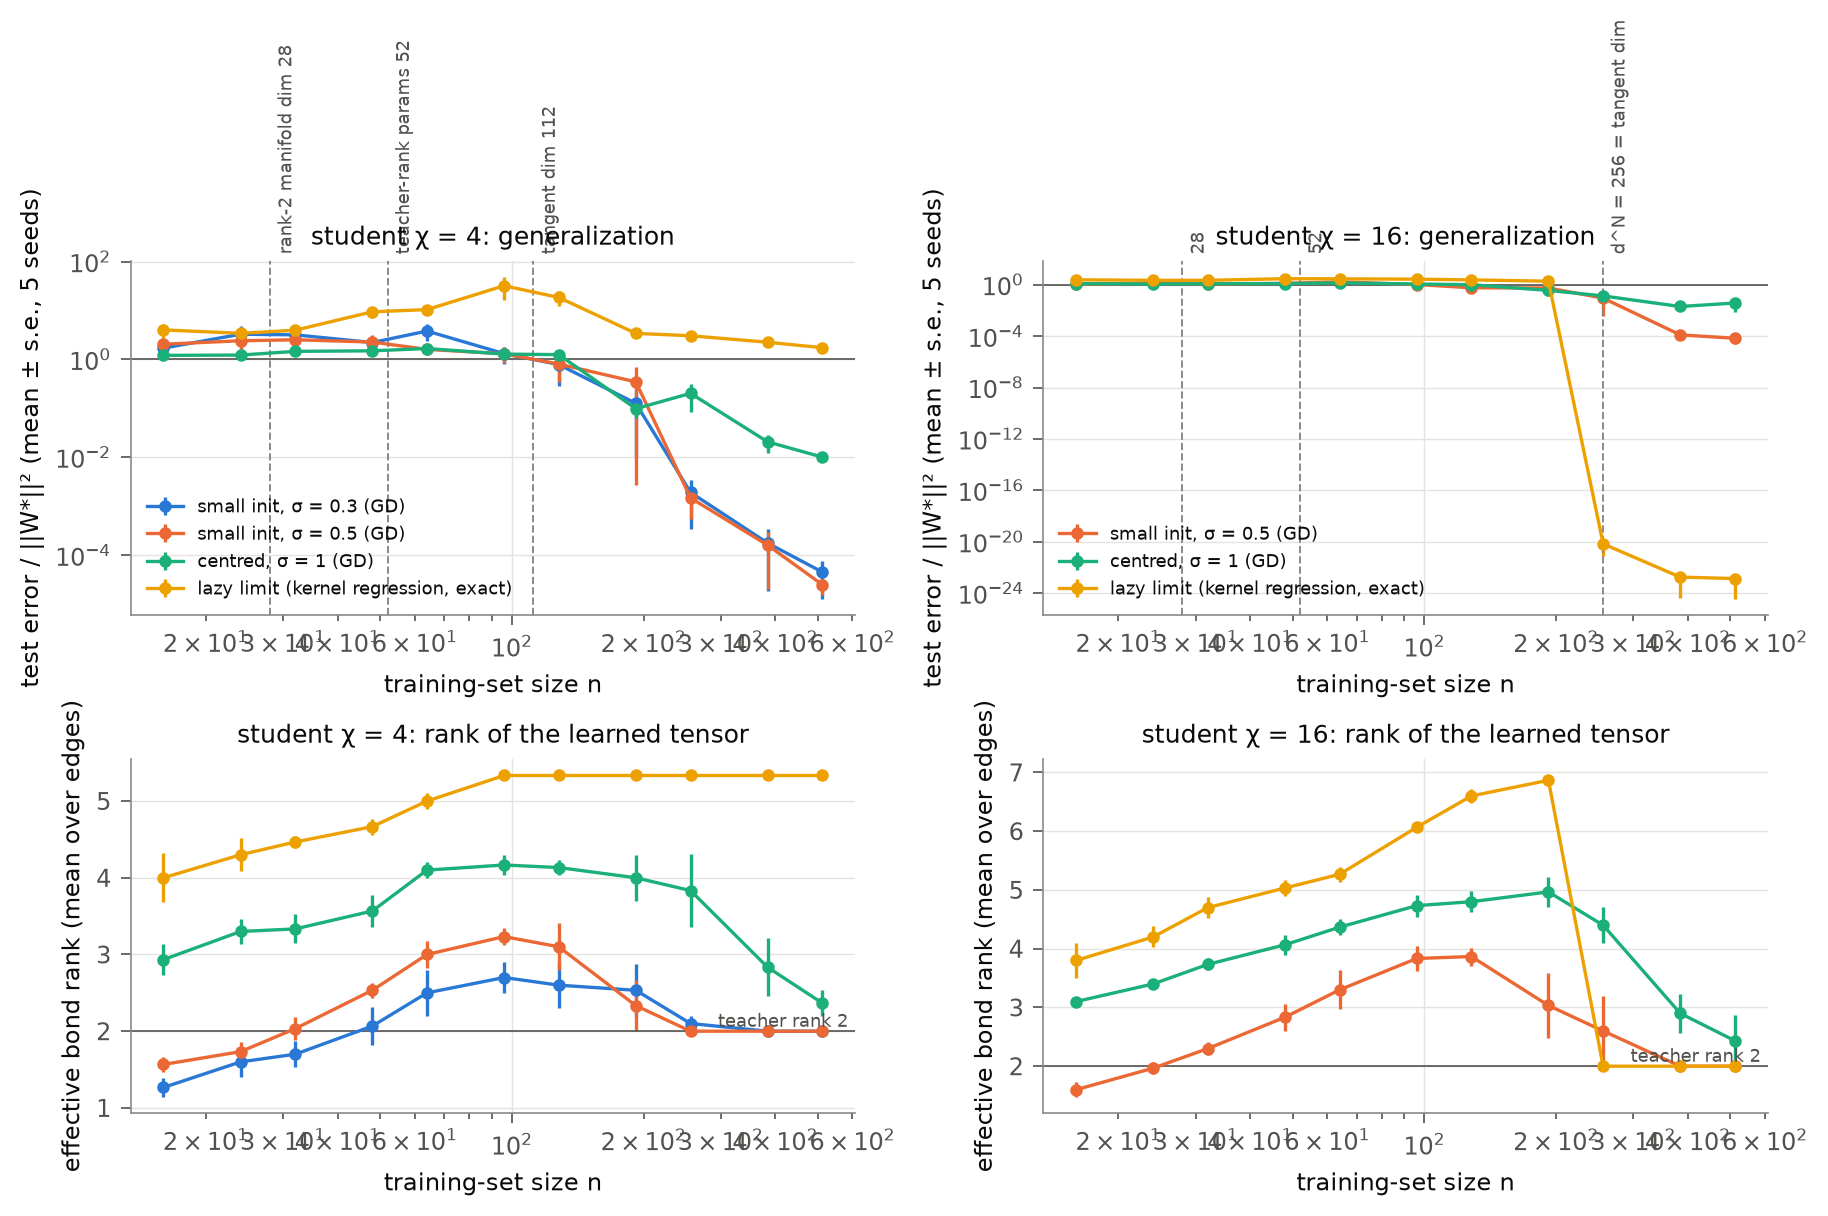
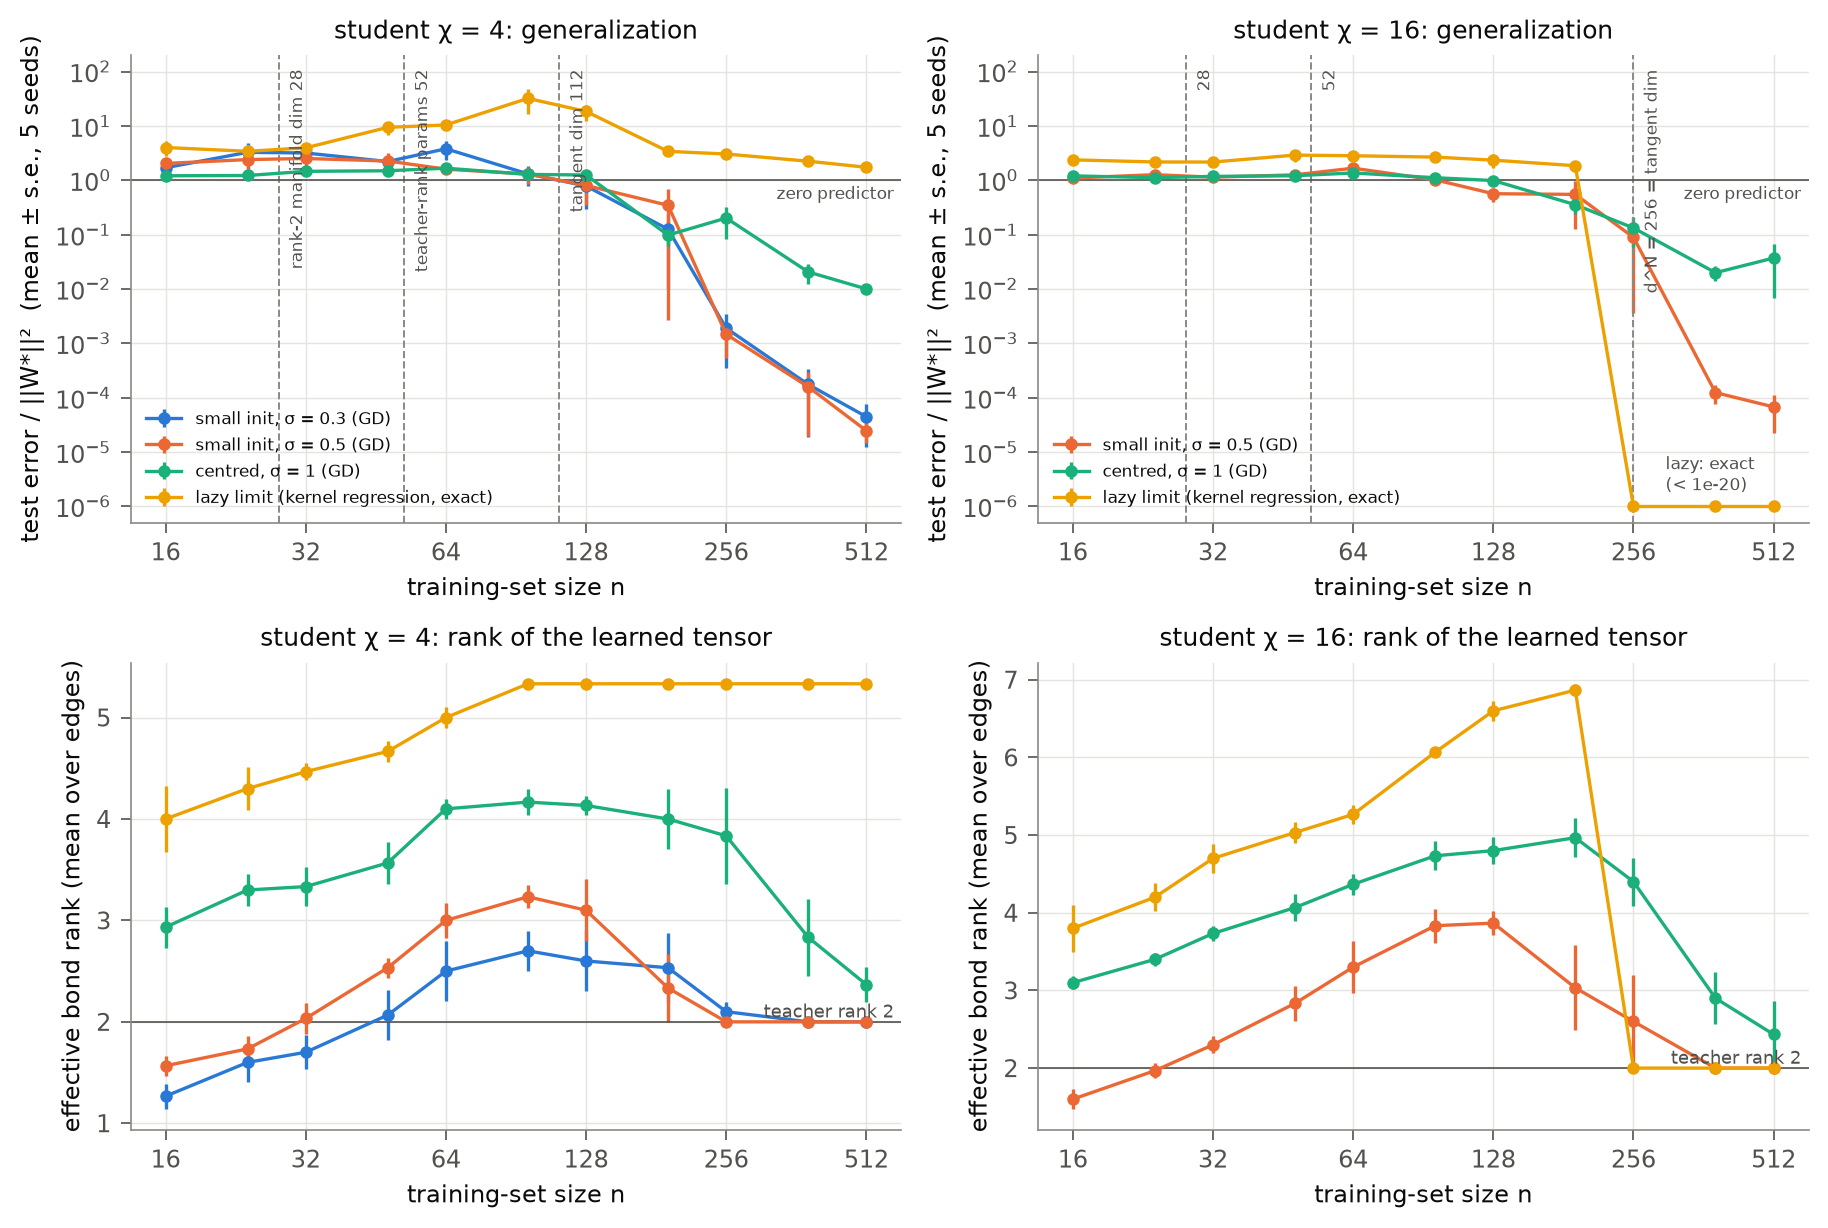
optim-samples: step-3 results in notes, cleaned samples figure

diff --git a/experiments/optim_samples/analyze_samples.py b/experiments/optim_samples/analyze_samples.py
@@ -80,6 +80,8 @@ def main():
     marks = {4: [(28, "rank-2 manifold dim 28"), (52, "teacher-rank params 52"),
                  (112, "tangent dim 112")],
              16: [(28, "28"), (52, "52"), (256, "d^N = 256 = tangent dim")]}
+    floor = 1e-6
+    ticks = [16, 32, 64, 128, 256, 512]
     for j, chi in enumerate(chis):
         sub = summ[summ.chi == chi]
         ax = axes[0, j]
@@ -87,17 +89,24 @@ def main():
             g = sub[sub.label == lab]
             if g.empty:
                 continue
-            ax.errorbar(g.n, g.test_mean, yerr=g.test_se, fmt="o-", color=colors[lab], ms=3.5,
-                        lw=1.2, label=lab)
+            y = g.test_mean.clip(lower=floor)
+            ax.errorbar(g.n, y, yerr=np.where(g.test_mean > floor, g.test_se, 0), fmt="o-",
+                        color=colors[lab], ms=3.5, lw=1.2, label=lab)
         for x, txt in marks.get(chi, []):
             ax.axvline(x, color=ps.MUTED, lw=0.7, ls="--")
-            ax.text(x * 1.04, 1.02, txt, transform=ax.get_xaxis_transform(), fontsize=6.5,
-                    color=ps.INK2, rotation=90, va="bottom", ha="left")
+            ax.text(x * 1.05, 0.97, txt, transform=ax.get_xaxis_transform(), fontsize=6.3,
+                    color=ps.INK2, rotation=90, va="top", ha="left")
         ax.axhline(1, color=ps.INK2, lw=0.6)
-        ax.set(xscale="log", yscale="log", xlabel="training-set size n",
-               ylabel="test error / ||W*||² (mean ± s.e., 5 seeds)",
+        ax.text(0.99, 0.8, "zero predictor", transform=ax.get_yaxis_transform(), fontsize=6.3,
+                color=ps.INK2, ha="right", va="top")
+        if chi == 16:
+            ax.text(300, floor * 2, "lazy: exact\n(< 1e-20)", fontsize=6.3, color=ps.INK2)
+        ax.set(xscale="log", yscale="log", ylim=(floor / 2, 200), xlabel="training-set size n",
+               ylabel="test error / ||W*||²  (mean ± s.e., 5 seeds)",
                title=f"student χ = {chi}: generalization")
-        ax.legend(loc="lower left", fontsize=6.5)
+        ax.set_xticks(ticks, [str(t) for t in ticks])
+        ax.minorticks_off()
+        ax.legend(loc="lower left", fontsize=6.3)
         ax = axes[1, j]
         for lab in labels:
             g = sub[sub.label == lab]
@@ -111,6 +120,8 @@ def main():
         ax.set(xscale="log", xlabel="training-set size n",
                ylabel="effective bond rank (mean over edges)",
                title=f"student χ = {chi}: rank of the learned tensor")
+        ax.set_xticks(ticks, [str(t) for t in ticks])
+        ax.minorticks_off()
     fig.tight_layout()
     fig.savefig(OUT / "fig_samples.png")
     plt.close(fig)

diff --git a/notes/optim_samples.md b/notes/optim_samples.md
@@ -229,4 +229,52 @@ per sample** (effective kurtosis ~145 = 1.8 x 3^4: other directions feed the noi
 the GD limit returns. Mean-square stability is conservative (heavy tails: almost-sure stability can
 hold beyond it); the empirical SGD limit is not yet measured.
 
-## 6. Finite samples (to do)
+## 6. Finite samples and implicit bias (step 3)
+
+Setup (`samples_sweep.py`, `configs/samples_sweep.yaml`): binary N=8, d = 2 (W in R^256), odeco
+teacher [3, 2] (rank 2 on every bond; the teacher-rank TTN has 52 parameters and its manifold has
+dimension 28 = 52 - 6 x 4 gauge), teacher seed 101; n Gaussian training inputs (data seed 500 + seed),
+noise-free labels; 5 seeds per point (seed = data and init). Students: chi = 4 (208 parameters;
+tangent space at a random point has dimension 112, measured rank of J) and chi = 16 (full bond
+dimension, 832 parameters, tangent space = R^256). Training: GD on the empirical loss with
+eta = 1/lambda_max (power iteration every 200 steps; relative step capped at 1% near the origin),
+60 000 steps (train loss then ~1e-6 to 1e-3 of its initial value; no run reached the 1e-8 target).
+Small init: plain model, sigma = 0.3, 0.5. Large init: centred model (W - W_0 fits W*), sigma = 1.
+**Lazy limit:** the exact minimum-norm solution of the model linearized at theta_0 (kernel regression
+with the initial tangent kernel, `lazy_limit`), which the centred model approaches as sigma -> inf.
+Test error = exact population loss, reported as ||W - W*||^2 / ||W*||^2 (1 = zero predictor).
+Effective bond rank = number of bond singular values > 0.1 x 2 = 0.2, averaged over the 6 edges.
+Results: `results/samples_summary.csv`, `fig_samples.png`.
+
+| n | small init sigma=0.3, chi=4 | small sigma=0.5, chi=4 | centred sigma=1, chi=4 | lazy limit chi=4 | small sigma=0.5, chi=16 | centred sigma=1, chi=16 | lazy limit chi=16 |
+|---|---|---|---|---|---|---|---|
+| 128 | 0.79 (median 0.014) | 0.81 (0.17) | 1.25 | 18.5 | 0.57 | 0.99 | 2.35 |
+| 192 | 0.13 (0.0063) | 0.35 (0.0040) | 0.098 | 3.4 | 0.55 (0.017) | 0.36 | 1.86 |
+| 256 | 1.9e-3 | 1.5e-3 | 0.20 | 3.05 | 0.089 (0.0016) | 0.13 | < 1e-20 (exact) |
+| 384 | 1.8e-4 | 1.6e-4 | 0.021 | 2.25 | 1.3e-4 | 0.020 | < 1e-22 |
+| 512 | 4.5e-5 | 2.5e-5 | 0.010 | 1.74 | 6.8e-5 | 0.037 | < 1e-22 |
+
+(mean over 5 seeds; standard errors in the CSV.) Findings (all **empirical**, 5 seeds):
+- **Small init generalizes from the fewest samples**: test error < 2e-3 at n = 256 and ~1e-4 at
+  n = 384 for chi = 4, with effective bond rank exactly 2 (the teacher's) on every edge from n = 256 on;
+  the remaining error is the unfinished training (train loss ~1e-6). Both sigma = 0.3 and 0.5 behave
+  the same. Below n ~ 128-192 small-init GD interpolates with the wrong low-rank tensor (rank 1.3-3,
+  test error ~1-4).
+- **The lazy limit cannot fit W* at finite chi** (chi = 4: tangent dimension 112 < 256): test error
+  > 1 (worse than predicting zero) for every n up to 512, with a double-descent peak of ~30 near
+  n ~ 112, and effective rank 4-5.3 (high-rank, not the teacher's). At full chi = 16 it needs
+  n = d^N = 256 samples and then interpolates W* exactly (unique interpolant); below that it is again
+  worse than zero (1.9-2.9) because a single draw of the tangent kernel is strongly anisotropic (cf.
+  CLAUDE.md, lazy-regime finding), with effective rank up to 6.9.
+- **Centred sigma = 1 is not lazy** (parameters move 30-70% relative): it is in between, error
+  ~0.01-0.04 at n = 384-512, rank 2.4-2.9: feature learning with a weaker low-rank bias.
+- **Sample complexity of the low-rank bias (conjecture):** small-init GD needs n ~ 200-256, about
+  7-9x the 28-dimensional teacher manifold and close to d^N = 256 here. Proposed reason: the first escape
+  follows the empirical correlation tensor (1/n) sum_j y_j Phi(x_j), whose noise per direction is set
+  by the heavy tails of product features, E[y^2 |Phi|^2] / ||W*||^2 = (1 + 2/d)^N = 256 for d = 2,
+  N = 8, so n must exceed ~(1 + 2/d)^N before the escape direction is right. For d = 2 this equals
+  d^N, so the advantage over the lazy regime is only a constant here; for d >= 3 it should grow
+  exponentially in N ((5/3)^N vs 3^N). Not yet tested.
+- **Effective ranks (the implicit bias, directly):** at every n the learned tensor's bond rank is
+  ordered small init (1.3-3.9) < centred sigma = 1 (2.4-5) < lazy limit (4-6.9); only small init lands
+  on rank 2 once the data determine W*.
